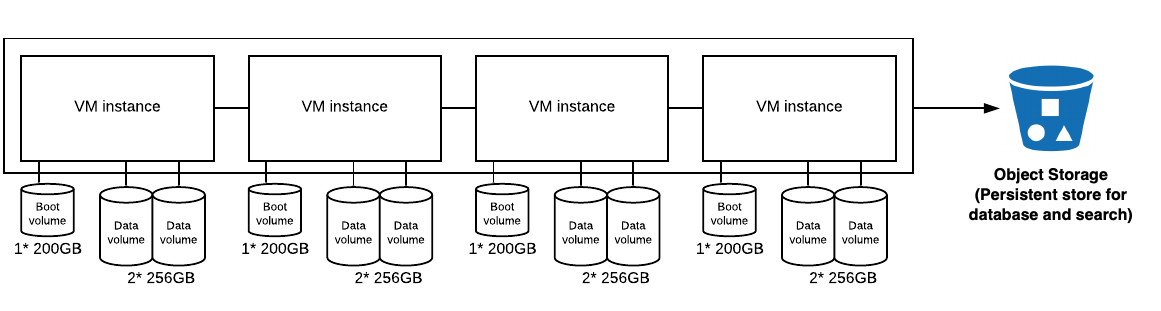
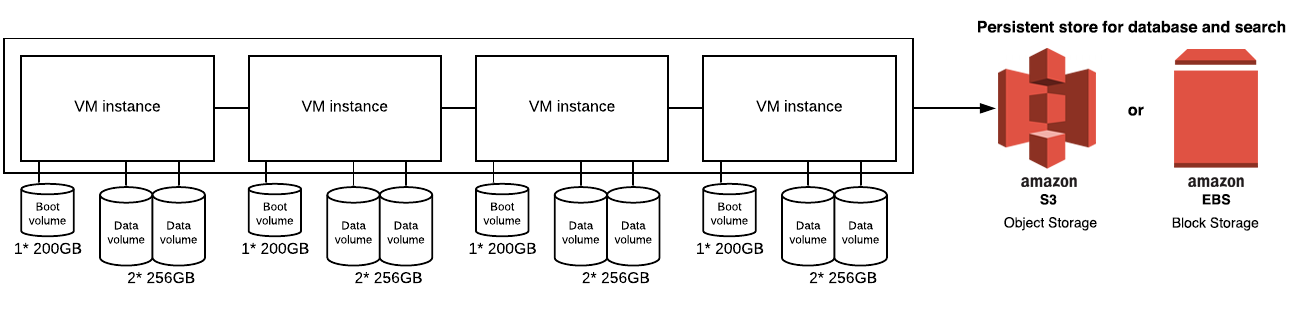
Updated cloud content

diff --git a/_appliance/cloud.md b/_appliance/cloud.md
@@ -13,17 +13,19 @@ ThoughtSpot currently supports the following cloud deployments:
 
 This page provides recommendations and best practices for ThoughtSpot cloud deployments, including how to set up your ThoughtSpot instance and how to reduce infrastructure costs.
 
-## Heterogeneous cluster configuration
+The ThoughtSpot cloud deployment consists of a combination of cloud compute (VM) instances as well as an underlying persistent storage layer (which uses block storage volumes, except in the case of AWS, which supports block and object-based options for persistent storage. For more information about AWS storage options, refer to:
 
-Prior to the 5.3 release, each cluster was homogeneous. Each node in a cluster had the same configuration and resources, and ran the same services. With heterogeneous clusters, now different nodes in the cluster run different services. Each VM in the cluster is sized to match the resource needs of each service. This configuration reduces the cost of the cluster for large cluster sizes, since the compute cost is more optimized than the homogeneous configuration in previous releases.
+The number of instances required for a cloud deployment is based on the size of the data in ThoughtSpot. The instances act as a distributed cluster of nodes to serve query responses.
+
+![]({{ site.baseurl }}/images/cloud-vm-storage.png "ThoughtSpot cloud deployment")
 
 ## ThoughtSpot cloud instance types
 
 Refer to the following guidelines for how to set up ThoughtSpot on each cloud service:
 
-- [AWS instance types]({{ site.baseurl }}/appliance/aws/configuration-options.html)
-- [Azure instance types]({{ site.baseurl }}/appliance/azure/configuration-options.html)
-- [GCP instance types]({{ site.baseurl }}/appliance/gcp/configuration-options.html)
+- [AWS instance types]({{ site.baseurl }}/appliance/aws/configuration-options.html#thoughtspot-aws-instance-types)
+- [Azure instance types]({{ site.baseurl }}/appliance/azure/configuration-options.html#thoughtspot-azure-instance-types)
+- [GCP instance types]({{ site.baseurl }}/appliance/gcp/configuration-options.html#thoughtspot-gcp-instance-types)
 
 ## Reducing your cloud infrastructure costs
 

diff --git a/_appliance/aws/configuration-options.md b/_appliance/aws/configuration-options.md
@@ -15,9 +15,9 @@ You can find information here on which configuration of memory, CPU, storage,
 and networking capacity you should be running for your instances. There are also
 details on how to configure your placement groups.
 
-## Persistent storage options
+## Storage options
 
-In order to reduce the cost of a deployment, S3 is available as persistent storage for major services like the ThoughtSpot database and search engine. HDFS is also available, but it uses EBS for underlying storage which is significantly more expensive than the object-based S3 storage. If your cluster size is 1 TB or greater, you may benefit from the cost savings of the S3 storage option. Contact [ThoughtSpot Support]({{ site.baseurl }}/admin/misc/contact.html#) for assistance with setting up this option.
+In order to reduce the cost of a deployment, S3 is available as storage for major services like the ThoughtSpot database and search engine. HDFS is also available, but it uses EBS for underlying storage which is significantly more expensive than the object-based S3 storage. If your cluster size is 1 TB or greater, you may benefit from the cost savings of the S3 storage option. Contact [ThoughtSpot Support]({{ site.baseurl }}/admin/misc/contact.html#) for assistance with setting up this option.
 ![]({{ site.baseurl }}/images/persistent-storage.png "Persistent Storage with S3")
 
 ## ThoughtSpot AWS instance types
